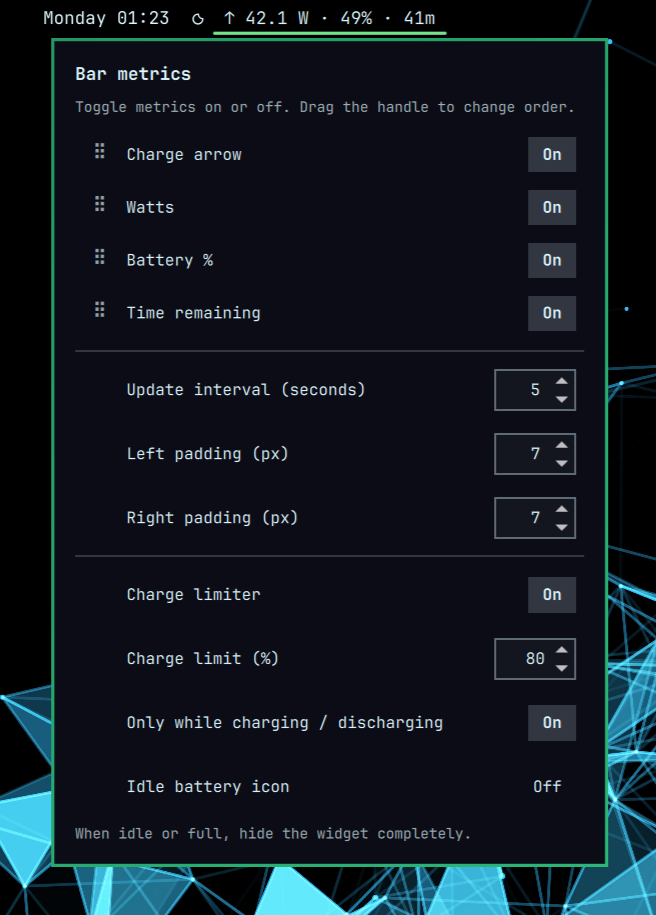
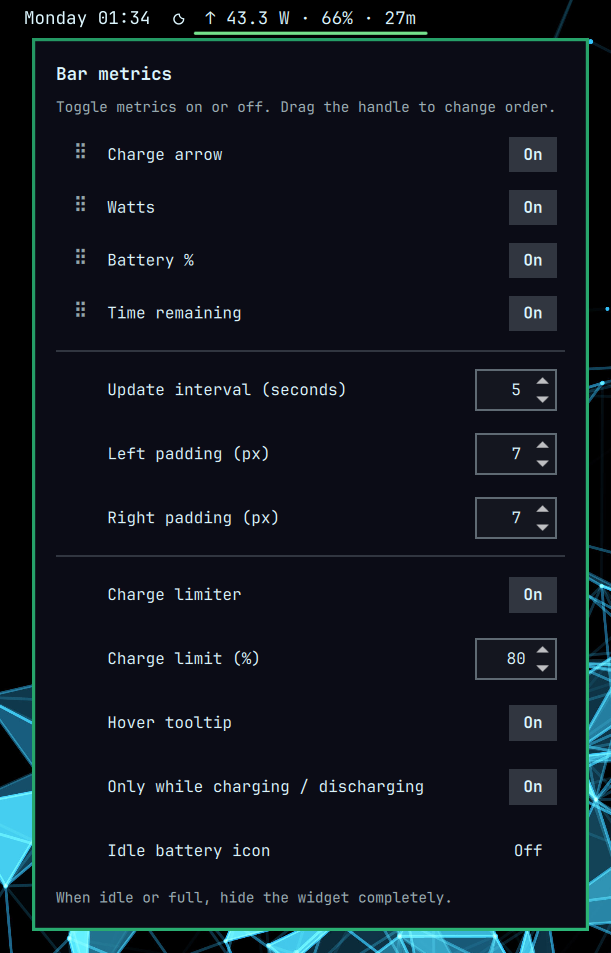
feature: optional hover tooltip toggle for watts widget
- Menu On/Off for hoverTooltip (default on); closes tip when disabled
- Refresh menu screenshot to include the new control

Changed region(s): [[0.0, 0.0, 1.0, 1.0]]

diff --git a/BarWidget.qml b/BarWidget.qml
@@ -27,6 +27,12 @@ BarWidget {
     if (v === false || v === "false" || v === "off" || v === 0 || v === "0") return false
     return true
   }
+  // Live hover tooltip (default on).
+  readonly property bool hoverTooltipEnabled: {
+    var v = setting("hoverTooltip", "on")
+    if (v === false || v === "false" || v === "off" || v === 0 || v === "0") return false
+    return true
+  }
   // Probe cadence in seconds (1-300). Plain number in shell.json.
   readonly property int intervalSec: {
     var n = Math.floor(Number(setting("intervalSec", 5)))
@@ -103,7 +109,8 @@ BarWidget {
   implicitHeight: barSize
   // Bar open-panel underline defaults to ~55% of the slot; span the full widget.
   readonly property real openPanelIndicatorWidth: width
-  readonly property bool tooltipHovered: visible && mouseArea.containsMouse && !root.menuOpen
+  readonly property bool tooltipHovered: visible && root.hoverTooltipEnabled
+    && mouseArea.containsMouse && !root.menuOpen
 
   function readPadPx(raw) {
     if (raw === null || raw === undefined || raw === "") return Style.space(8)
@@ -143,6 +150,11 @@ BarWidget {
 
   function setIdleIcon(enabled) {
     root.persistSettings({ idleIcon: enabled ? "on" : "off" })
+  }
+
+  function setHoverTooltip(enabled) {
+    root.persistSettings({ hoverTooltip: enabled ? "on" : "off" })
+    if (!enabled) root.closeTooltip()
   }
 
   function setIntervalSec(sec) {
@@ -281,6 +293,7 @@ BarWidget {
   }
 
   function armTooltip() {
+    if (!root.hoverTooltipEnabled) return
     if (root.menuOpen) return
     hideTipTimer.stop()
     if (root.tooltipText === "") return
@@ -435,7 +448,7 @@ BarWidget {
 
   PopupWindow {
     id: tipWindow
-    visible: root.tipShown && root.tooltipText !== "" && !root.menuOpen
+    visible: root.hoverTooltipEnabled && root.tipShown && root.tooltipText !== "" && !root.menuOpen
     color: "transparent"
     implicitWidth: Math.ceil(tipBubble.implicitWidth)
     implicitHeight: Math.ceil(tipBubble.implicitHeight)
@@ -946,6 +959,52 @@ BarWidget {
         font.pixelSize: Style.font.caption
         wrapMode: Text.WordWrap
         width: parent.width
+      }
+
+      Item {
+        id: hoverTooltipRow
+        width: parent.width
+        height: menu.metricRowHeight
+
+        Rectangle {
+          anchors.fill: parent
+          anchors.margins: Style.space(1)
+          color: "transparent"
+
+          Row {
+            anchors.fill: parent
+            anchors.leftMargin: Style.space(4)
+            anchors.rightMargin: Style.space(4)
+            spacing: Style.space(8)
+
+            Item {
+              width: Style.space(22)
+              height: parent.height
+            }
+
+            Text {
+              anchors.verticalCenter: parent.verticalCenter
+              width: parent.width - Style.space(22) - hoverTooltipBtn.implicitWidth - parent.spacing * 2
+              text: "Hover tooltip"
+              color: root.fg
+              font.family: root.fontFamily
+              font.pixelSize: Style.font.bodySmall
+              elide: Text.ElideRight
+            }
+
+            Button {
+              id: hoverTooltipBtn
+              anchors.verticalCenter: parent.verticalCenter
+              text: root.hoverTooltipEnabled ? "On" : "Off"
+              foreground: root.fg
+              selected: root.hoverTooltipEnabled
+              horizontalPadding: 8
+              verticalPadding: 3
+              fontSize: Style.font.bodySmall
+              onClicked: root.setHoverTooltip(!root.hoverTooltipEnabled)
+            }
+          }
+        }
       }
 
       Item {

diff --git a/README.md b/README.md
@@ -24,7 +24,7 @@ tooltip with the full detail.
 - Configurable left/right bar padding (px) to nudge the label on the bar
 - Charge limiter: toggle and set end-threshold % (defaults to the current kernel value)
 - Hover tooltip with status, capacity %, watts, and time remaining / until full
-- Tooltip stays open while hovering and updates live with each sample
+- Tooltip stays open while hovering and updates live with each sample (can be disabled)
 - Toggle with `omarchy bar set local.watts enabled false` (or `true`)
 
 ## Sampling and update rate
@@ -63,6 +63,7 @@ Also:
   value prompts for elevation via `pkexec` and updates
   `/etc/systemd/system/battery-charge-limit.service` so it survives reboot.
 - **Charge limit (%)** - target when the limiter is on (50-100)
+- **Hover tooltip** - show the live detail popup on hover (default on)
 - **Only while charging / discharging** - when on, hide metrics while idle or full
 - **Idle battery icon** - when the option above is on, show a clickable battery
   icon while idle/full (default on). Turn off to hide the widget completely when
@@ -92,17 +93,18 @@ plugin reloads after Omarchy updates):
   "padLeft": 8,
   "padRight": 8,
   "chargeLimit": "on",
-  "chargeLimitPct": 80
+  "chargeLimitPct": 80,
+  "hoverTooltip": "on"
 }
 ```
 
 Metric ids: `arrow`, `watts`, `capacity`, `time`. Each is followed by `:on` or `:off`.
 Order in the string is the bar order. The charge arrow joins its neighbor with a
-space (`↓ 8.1 W`); other metrics use ` · `. `activeOnly` and `idleIcon` are `on`
-or `off`. `intervalSec` is 1-300. `padLeft` / `padRight` are pixels (0-400).
-Unset padding keeps the theme default (`Style.space(8)`). Unset `chargeLimit` /
-`chargeLimitPct` follow the live sysfs end-threshold (limiter on when it is
-below 100%).
+space (`↓ 8.1 W`); other metrics use ` · `. `activeOnly`, `idleIcon`, and
+`hoverTooltip` are `on` or `off`. `intervalSec` is 1-300. `padLeft` / `padRight`
+are pixels (0-400). Unset padding keeps the theme default (`Style.space(8)`).
+Unset `chargeLimit` / `chargeLimitPct` follow the live sysfs end-threshold
+(limiter on when it is below 100%).
 
 Older configs without `arrow`, nested-array `metrics`, and the previous `display`
 setting (`watts` / `time` / `full`) still migrate automatically.
